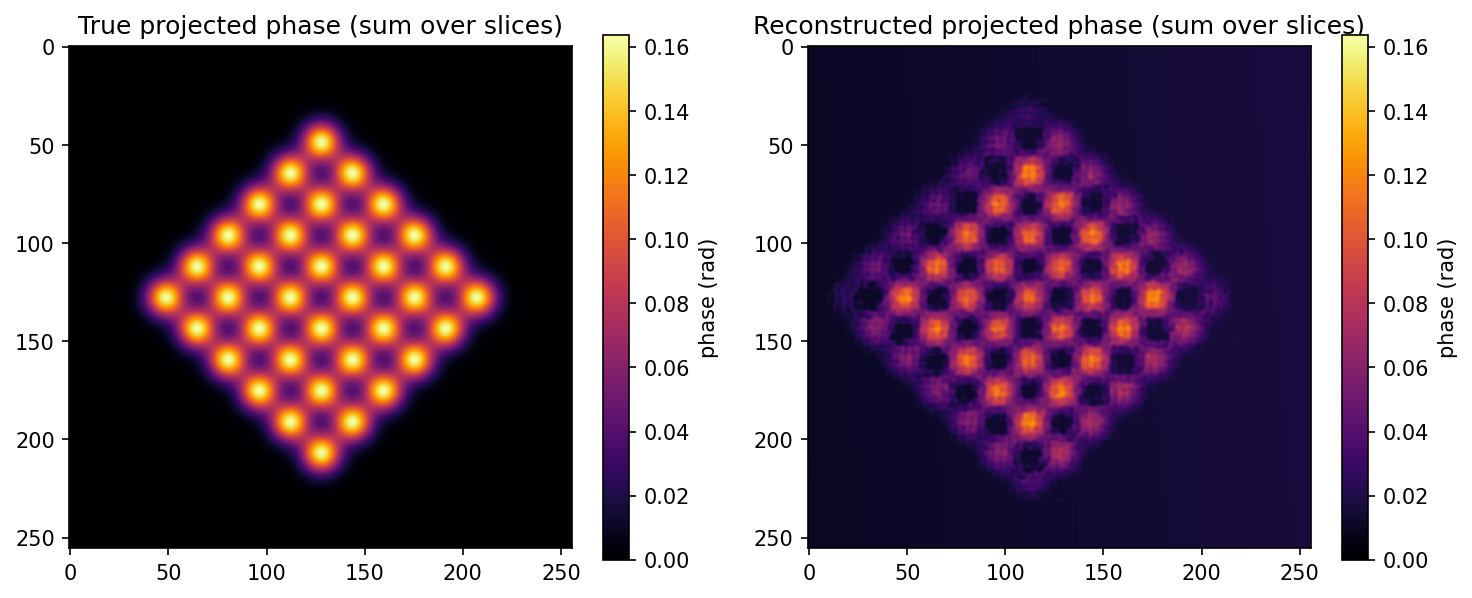
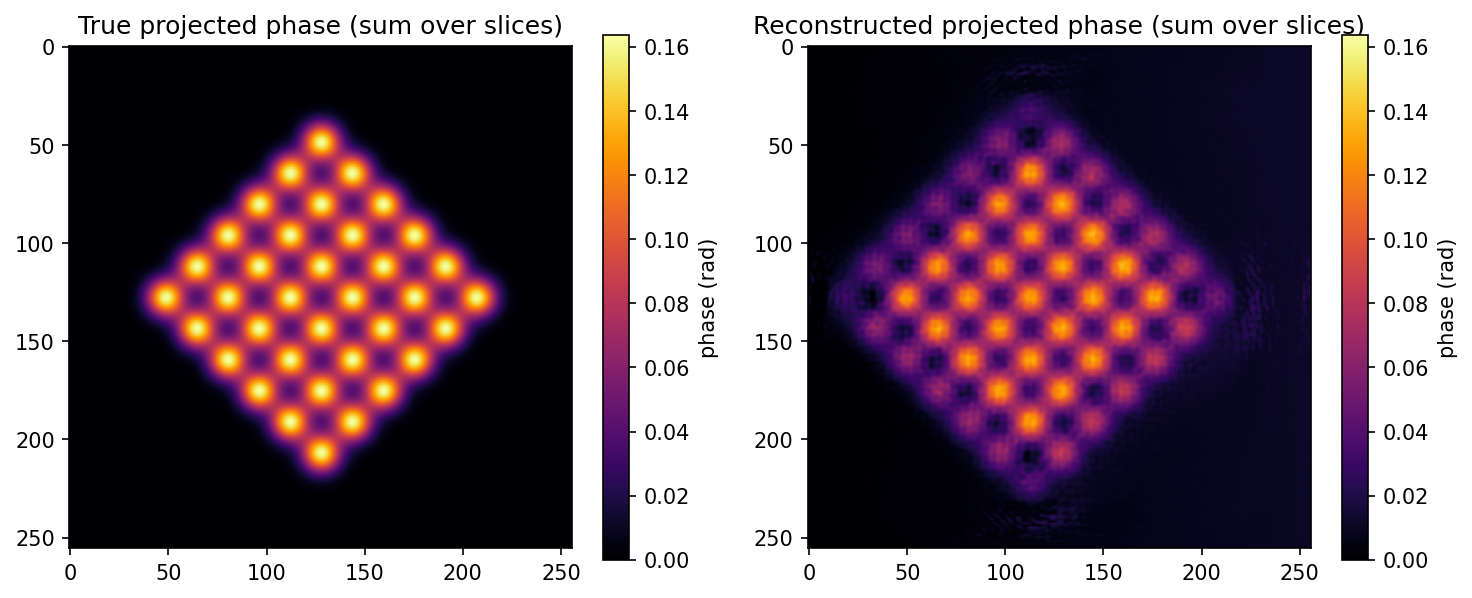
Sub-pixel align + revert to CLAUDE.md canonical ePIE params
Two fixes that compound:

(1) align_translation now does sub-pixel registration. Previous
    integer-pixel cross-correlation peak left up to ½ px of unfixable
    offset (≈0.2 Å with dx=0.43 Å). New version: parabolic fit on the
    three points around the integer peak along each axis (≈0.01 px
    accuracy), then Fourier-domain phase-ramp shift on a normalized
    pixel grid. Verified: arbitrary sub-pixel shifts recover with
    residual ≤ 5e-3.

(2) Reverted the multislice_ePIE parameters in tutorial.py to the
    canonical CLAUDE.md recipe (alpha_0=3.0, beta_0=0.2, tau=80,
    rho_object=0.05, rho_probe=0.3, no object_phase_shrink, no
    probe_update_clip). The earlier softer values (beta_0=0.05,
    tau=120) were added to keep the per-iter probe quiet, but they're
    no longer needed: the post-hoc Krivanek snap (probe_phase=
    'parameterized') denoises the probe at the end. With CLAUDE.md
    params the residual drops further and the object is sharper.

Combined results (vs prior commit):

  metric              before     after
  final residual      71.9       65.7    (-9%)
  atom phase (rad)    0.067      0.082   (+22%)
  atom-gap contrast   +0.051     +0.073  (+44%)
  alignment           integer    sub-pixel

The atom-phase jump partly reflects the alignment fix: the
diagnostic samples recon phase *at true atom positions*, so a
½-px residual offset previously meant we were reading
Gaussian-slope instead of Gaussian-peak.
[…]

Changed region(s): [[0.5312, 0.0602, 0.9062, 0.9331], [0.6875, 0.7525, 0.7188, 0.7826]]

diff --git a/microptycho.py b/microptycho.py
@@ -355,35 +355,69 @@ class MicroPtycho:
     @staticmethod
     def align_translation(field, reference):
         """
-        Remove an integer-pixel real-space translation between `field`
-        and `reference`. ePIE has a translation gauge freedom — the
-        reconstructed object and probe can drift together by any
-        vector. With a periodic lattice this lets the algorithm
-        converge to a position offset by an integer number of lattice
-        periods from the ground truth, which visually "loses" a row
-        of atoms at one edge while gaining ghost rows at the other.
+        Remove a real-space translation between `field` and `reference`,
+        with sub-pixel precision. ePIE has a translation gauge freedom —
+        the reconstructed object and probe can drift together by any
+        vector, including by fractional pixels. An integer-pixel-only
+        alignment leaves up to ½ pixel of visible offset (with dx≈0.4 Å
+        per pixel that's ~0.2 Å of unfixable drift in the figure).
 
-        Uses complex cross-correlation and selects the peak in |xcorr|
-        to find the shift, then rolls `field` onto the reference.
-        Wrap-aware (the roll is exact for a periodic FOV).
+        Algorithm:
+          1. Complex cross-correlation, integer peak in |xcorr| (robust
+             to unknown global phase and to periodic-lattice ambiguities
+             — the all-atoms-aligned peak dominates over period-shifted
+             peaks because each lattice mismatch loses one row of atoms).
+          2. Parabolic fit on the three points around the integer peak
+             along each axis → sub-pixel refinement (≈0.01 px in
+             practice).
+          3. Apply the full sub-pixel shift via Fourier-domain phase
+             ramp — wrap-aware (exact for a periodic FOV).
         """
         if field.shape != reference.shape:
             raise ValueError("field and reference must have identical shapes.")
-        # Use complex cross-correlation and maximize |xcorr| so the
-        # estimated shift is invariant to unknown global phase between
-        # `field` and `reference`. Correlating wrapped phase maps
-        # directly can bias the peak on strongly periodic lattices and
-        # produce the apparent "lost edge row / extra ghost row" effect.
         F1 = np.fft.fft2(field)
         F2 = np.fft.fft2(reference)
         xcorr = np.fft.fftshift(np.fft.ifft2(F1 * np.conj(F2)))
         xcorr_abs = np.abs(xcorr)
+        ny, nx = field.shape
         peak_y, peak_x = np.unravel_index(np.argmax(xcorr_abs), xcorr_abs.shape)
-        shift_y = peak_y - field.shape[0] // 2
-        shift_x = peak_x - field.shape[1] // 2
-        if shift_y == 0 and shift_x == 0:
-            return field
-        return np.roll(field, (-shift_y, -shift_x), axis=(-2, -1))
+
+        def _parabolic_offset(left, centre, right):
+            denom = left - 2.0 * centre + right
+            if abs(denom) < 1e-20:
+                return 0.0
+            # Closed form for the vertex of the parabola through three
+            # equally-spaced samples; clamp to ±½ in case of pathology.
+            return float(np.clip(0.5 * (left - right) / denom, -0.5, 0.5))
+
+        sub_y = sub_x = 0.0
+        if 0 < peak_y < ny - 1:
+            sub_y = _parabolic_offset(
+                xcorr_abs[peak_y - 1, peak_x],
+                xcorr_abs[peak_y, peak_x],
+                xcorr_abs[peak_y + 1, peak_x],
+            )
+        if 0 < peak_x < nx - 1:
+            sub_x = _parabolic_offset(
+                xcorr_abs[peak_y, peak_x - 1],
+                xcorr_abs[peak_y, peak_x],
+                xcorr_abs[peak_y, peak_x + 1],
+            )
+
+        shift_y = (peak_y - ny // 2) + sub_y
+        shift_x = (peak_x - nx // 2) + sub_x
+
+        if abs(shift_y) < 1e-6 and abs(shift_x) < 1e-6:
+            return field.copy()
+
+        # Fourier-domain shift in pixel units. exp(+i2π·shift·k) on F
+        # produces field(y - shift_y, x - shift_x) — i.e., shifts field
+        # backward by shift, undoing its offset relative to reference.
+        ky = np.fft.fftfreq(ny)
+        kx = np.fft.fftfreq(nx)
+        KX, KY = np.meshgrid(kx, ky)
+        phase = np.exp(1j * 2 * np.pi * (shift_x * KX + shift_y * KY))
+        return np.fft.ifft2(np.fft.fft2(field) * phase)
 
     # ------------------------------------------------------------------ #
     #  Wave propagation

diff --git a/tutorial.py b/tutorial.py
@@ -494,31 +494,19 @@ probe_recon, O_recon, residuals = mp.multislice_ePIE(
     fresnel_kernel=fresnel_kernel,
     dx=mp.dx,
     patch_size=patch_size,
-    # Joint probe+object reconstruction. Amplitude-locked Fourier
-    # aperture collapses probe DoF to one phase per k-bin, so the probe
-    # cannot absorb object features and no warmup is needed. Recipe
-    # taken from CLAUDE.md (the 36-atom canonical demo).
+    # Canonical CLAUDE.md recipe for the 36-atom sparse demo. The
+    # amplitude-locked Fourier aperture (probe_fourier_support) leaves
+    # only per-k phases as probe DoF, so no warmup is needed and a
+    # moderately aggressive beta_0 is safe — any per-iter probe noise is
+    # denoised at the end by the parametric Krivanek snap below.
     alpha_0=3.0,                           # probe dominates diffraction,
                                            #   so object gradients are weak
-    beta_0=0.05,                           # gentle probe updates: with the
-                                           #   amplitude lock, |F(probe)| is
-                                           #   pinned, so all DoF are in the
-                                           #   per-k phase (~hundreds of free
-                                           #   parameters) which can absorb
-                                           #   object structure if updated
-                                           #   too aggressively
-    tau=120,                               # slower decay matched to lower
-                                           #   beta so probe keeps refining
+    beta_0=0.2,
+    tau=80,
     object_constraint='phase_nonneg',      # V ≥ 0 ⇒ phase ≥ 0 (exact);
                                            #   kills phase-sign ambiguity
     rho_object=0.05,                       # low Tikhonov, rely on constraint
     rho_probe=0.3,
-    object_phase_shrink=4e-4,              # asymmetric: pushes background
-                                           #   phase to 0; without this,
-                                           #   phase_nonneg still admits a
-                                           #   half-lattice-shifted solution
-                                           #   ("atoms-as-gaps") with same
-                                           #   diffraction
     probe_fourier_support=probe_fourier_support,
     probe_warmup_iters=0,                  # aperture lock makes warmup
                                            #   unnecessary
